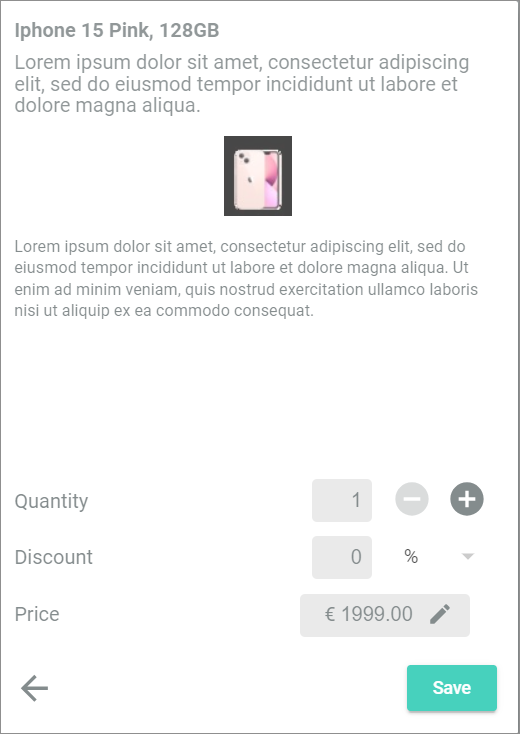
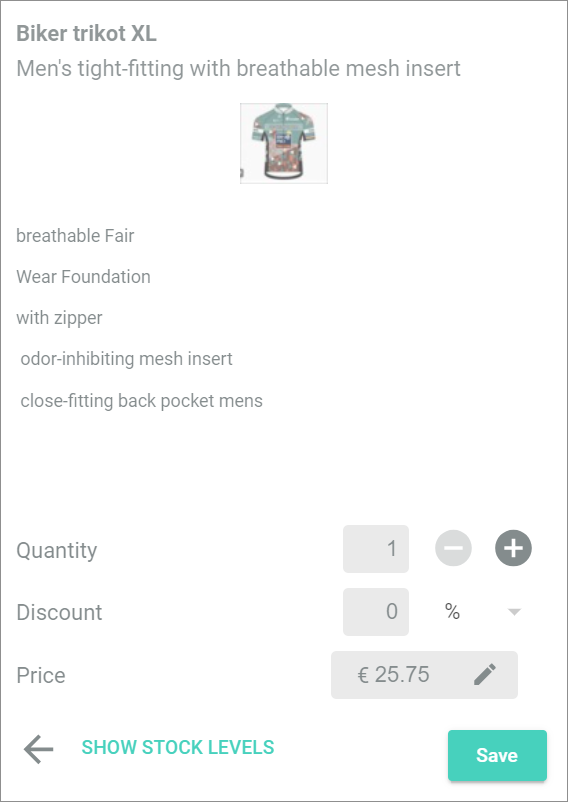
ACD-1084

diff --git a/POS/UserInterface/01a_Cashpoint.md b/POS/UserInterface/01a_Cashpoint.md
@@ -10,7 +10,7 @@
 ![Cashpoint](../../Assets/Screenshots/POS/Sales/Cashpoint/Cashpoint.png "[Cashpoint]")
 
 - *Find offer by name* ![Search](../../Assets/Icons/Search.png "[Search]")   
-    Enter the offer name, the keyword or the (EAN) number you search for in the search bar. Click a product in the list of search results to add it to the bill list.
+    Enter the offer name, the keyword or the (EAN) number you search for in the search bar. Click an offer in the list of search results to add it to the bill list.
 
     > [Info] The search already provides you with proposals for your keyword as you type.
 
@@ -31,10 +31,13 @@
 The *Age verification* window is displayed if a selected offer is not suitable for children and young people. For detailed information, see [Verify the age](../Operation/02_SelectOffer.md#verify-the-age).
 
 - [AGE OF BUYER CONFIRMED]   
-   Click this button if f the customer is allowed to buy this offer.        
+    Click this button if the customer is allowed to buy this offer.  
+    The offer is added to the bill list.      
 
 - [CANCEL]   
-   Click this button if the customer is too young to buy this offer.
+   Click this button if the customer is too young to buy this offer.   
+   The offer is not added to the bill list. 
+
 
 
 <!---NEU-->
@@ -42,7 +45,7 @@ The *Age verification* window is displayed if a selected offer is not suitable f
 
 *Venduo POS > Sales > Select Store and Pay Desk > Tab CASHPOINT > Select offer*
 
-![Choose options](../../Assets/Screenshots/POS/Sales/Cashpoint/ChooseOption.png "[Choose option]")
+![Choose options](../../Assets/Screenshots/POS/Sales/Cashpoint/ChooseOption2.png "[Choose option]")
 
 The *Choose options* window is displayed if a selected offer has additional product options that represent a service. For detailed information, see [Add a product option](../Operation/02_SelectOffer.md#add-a-product-option). 
 
@@ -50,11 +53,12 @@ The *Choose options* window is displayed if a selected offer has additional prod
     Enter additional information to a single option, if applicable. This can be a text or a name that should be printed on a shirt or another item.
 
 - [CANCEL]   
-    Click this button if the customer do not want to purchase the option.
+    Click this button if the customer no longer wants to purchase the offer associated with the product option.
 
 - [SAVE]   
-    Click this button if the customer want to purchase the option.   
-    The option is added to the bill list.
+    Click this button if the customer wants to purchase the offer, or both the offer and the product option.   
+    If you previously selected a product option, both the associated offer and the product option are added to the bill list.
+    If you have not previously selected a product option, only the associated offer is added to the bill list.
 
 
 
@@ -80,33 +84,31 @@ The *Choose options* window is displayed if a selected offer has additional prod
     Click this button to scan a customer code with a barcode scanner or to enter the customer number manually, see [Assign a purchase via customer number](../Operation/03_EditBillList.md#assign-a-purchase-via-customer-number).
 
 - ![Add customer](../../Assets/Icons/Customer02.png "[Add customer]") (Add Customer)   
-    Click this button to assign the bill to a certain customer. The *Add Customer* view is displayed, see [Add customer](#add-customer).
+    Click this button to assign the bill to a certain customer. The *Add customer* view is displayed, see [Add customer](#add-customer).
 
 - *Customer Name and Address*   
-    The customer name and address is displayed, when the bill list is assigned to a customer. This field is read-only.
+    The customer name and address is displayed when the bill list is assigned to a customer. This field is read-only.
 
-- ![Unassign Customer](../../Assets/Icons/Trash01.png "[Unassign Customer]") (Unassign Customer)  
-    Click this button to unassign the customer from the bill list. The button is only displayed when the bill list is already assigned to a customer.
+- ![Unassign customer](../../Assets/Icons/Trash01.png "[Unassign customer]") (Unassign Customer)  
+    Click this button to unassign the customer from the bill list. The button is only displayed if the bill list has already been assigned to a customer.
 
 - *Quantity x*    
-    Quantity of the product in the bill list. This field is displayed only when a product is added to the bill list.
+    Quantity of the offer in the bill list. This field is only displayed if an offer has been added to the bill list.
 
 - *Name*   
-    Offer name. This field is displayed only when an offer is added to the bill list.
+    Offer name. This field is only displayed if an offer has been added to the bill list.
 
 - *Price*   
-    Total gross price of the single offer(s).<!--- Hier stand net price. Bei mir ist aber der gross price--> This field is displayed only when an offer is added to the bill list.   
+    Total gross price of the single offer(s).<!--- Hier stand net price. Bei mir ist aber der gross price--> This field is only displayed if an offer has been added to the bill list.   
     By default, the price is displayed in black. If the price has been modified, it will be displayed differently as follows:
-    - Price is written in red and followed by an amount/a percentage in brackets   
+    - Price is written in red and followed by an amount/a percentage in brackets:   
         The price is a discount price, the discount is indicated in brackets, either as a fixed discount or percentage.
-    - Price is written in italics   
+    - Price is written in italics:   
         The price itself has been modified.
-    - Price is crossed out and is displayed below the price that is charged  
-        The price have been changed directly without a discount (new price is written in italics) or the price is a price group-specific price, see [Assign a price group](../Operation/04_CompletePurchase.md#assign-a-price-group).
-<!--- noch prüfen, was ist mit Customer-specific discount?-->
-    
+    - Price is crossed out and is displayed below the price that is charged:  
+        The price have been changed directly without a discount (new price is written in italics) or the price is a price group price, see [Assign a price group](../Operation/04_CompletePurchase.md#assign-a-price-group).
 
-- ![Remove Offer](../../Assets/Icons/Cross02.png "[Remove Product]") (Remove Product)   
+- ![Remove Offer](../../Assets/Icons/Cross02.png "[Remove Product]") (Remove offer)   
     Click this button to remove an offer from the bill list. This field is displayed only when an offer is added to the bill list.
 
 - *![Toggle](../../Assets/Icons/Toggle.png "[Toggle]") Single scan*   
@@ -115,7 +117,7 @@ The *Choose options* window is displayed if a selected offer has additional prod
     > [Info] If the same offer is selected more than once, and you use the single scan feature, each offer is listed as a single offer in the bill list. This allows you to treat each offer in the posting individually. 
 
 - *Sub total*   
-    Net<!---Hier stand "Gross"--> amount of all products in the bill list. This field is read-only.
+    Net<!---Hier stand "Gross"--> amount of all offers in the bill list. This field is read-only.
 
 - *Tax*   
     Tax amount of all offers in the bill list. This field is read-only.
@@ -159,10 +161,10 @@ This section is only displayed when no voucher has been redeemed.
 **Settlement**
 
 - *Sub total*   
-    Net <!---Hier stand Gross amount--> amount of all products in the bill list. This field is read-only.
+    Net <!---Hier stand Gross amount--> amount of all offers in the bill list. This field is read-only.
 
 - *Tax*   
-    Tax amount of all products in the bill list. This field is read-only.
+    Tax amount of all offers in the bill list. This field is read-only.
 
 - [+ DISCOUNT]   
     Click this button to apply a discount to the bill. The *Discount on bill* view is displayed. This button is only displayed when no discount has been selected.
@@ -463,7 +465,7 @@ The *Payment at terminal* view is automatically displayed when the cash payment 
 ![Offer details](../../Assets/Screenshots/POS/Sales/Cashpoint/BillList/ProductDetails.png "[Offer details]")
 
 - *Quantity*   
-    Quantity of the selected product in the bill list.
+    Quantity of the selected offer in the bill list.
 
 - ![Minus](../../Assets/Icons/Minus.png "[Minus]") (Minus)  
     Click this button to decrease the quantity in the field *Quantity* by 1. The button is locked, when the quantity equals **1**.
@@ -472,7 +474,7 @@ The *Payment at terminal* view is automatically displayed when the cash payment 
     Click this button to increase the quantity in the field *Quantity* by 1.
 
 - *Discount*   
-    Discount on the selected product in the bill list.
+    Discount on the selected offer in the bill list.
 
 - *%/Currency*   
     Click this drop-down list and select the type of discount. The following options are available:
@@ -482,13 +484,17 @@ The *Payment at terminal* view is automatically displayed when the cash payment 
         A fixed price discount in the selected currency is applied.
 
 - *Price*   
-    Price of the selected product in the bill list.
+    Price of the selected offer in the bill list.
+
+- [SHOW STOCK LEVELS]   
+    Click this button to display the stock level of the selected offer in all other stores of your company.   
+    The *Stock levels* window is displayed. It provides a list of the stock levels of this offer in all stores.
 
 -  ![Edit](../../Assets/Icons/Edit02.png "[Edit]") (Edit)   
-    Click this button to unlock the price field and edit the price of the selected product.
+    Click this button to unlock the price field and edit the price of the selected offer.
 
 - ![Back](../../Assets/Icons/Back01.png "[Back]") (Back)   
-    Click this button to cancel the changes to the product and return to the bill list.
+    Click this button to cancel the changes to the offer and return to the bill list.
 
 - [Save]   
-    Click this button to save the changes to the product and return to the bill list.
+    Click this button to save the changes to the offer and return to the bill list.

diff --git a/POS/UserInterface/02a_GlobalSettings.md b/POS/UserInterface/02a_GlobalSettings.md
@@ -604,8 +604,8 @@ A customer-specific discount is automatically added to the pay bill list when a 
 
 The following prerequisites must be met to use this feature: 
 
-- You have added an attribute for the auto-discount to the attribute sets with which you define customer and supplier basic data. See the *RetailSuite customer* or the *RetailSuite supplier* attribute set for reference. Currently, the customer-specific discount can only be retrieved via the _customer_auto_discount attribute of the Actindo.Modules.Actindo.POS.Customers API. <!---ist das richtig-->
-- This attribute must be of the Floating point number or Integer data type. For detailed information, see [Floating point number](../../DataHub/UserInterface/05_DataTypeList.md#floating-point-number) or [Integer](../../DataHub/UserInterface/05_DataTypeList.md#integer) in the *DataHub* documentation.
+- You have added an attribute for the customer-specific discount to the attribute sets with which you define customer and supplier basic data. See the *RetailSuite customer* or the *RetailSuite supplier* attribute set for reference. Currently, the customer-specific discount can only be retrieved via the _customer_auto_discount attribute of the Actindo.Modules.Actindo.POS.Customers API. <!---ist das richtig-->
+- This attribute must be of the *Floating point number* or *Integer* data type. For detailed information, see [Floating point number](../../DataHub/UserInterface/05_DataTypeList.md#floating-point-number) or [Integer](../../DataHub/UserInterface/05_DataTypeList.md#integer) in the *DataHub* documentation.
 
 
 The following fields and features are available for this window:   
@@ -974,6 +974,8 @@ Define an invoice address for a default customer to connect the POS system with 
 <!---NEU-->
 ## KNISTR
 
+The KNISTR integration allows you to identify and charge a pre-printed voucher, see [Create an offer for pre‐printed vouchers](../Integration/07_ManageOffers.md#create-an-offer-for-pre-printed-vouchers).    
+
 In this section, you define all settings concerning the KNISTR integration. For detailed information, see the [KNISTR](https://www.knistr.com "[https://www.knistr.com]") website.
 
 
@@ -987,7 +989,7 @@ In this section, you define all settings concerning the KNISTR integration. For 
     Click this button to save any changes.
 
 - *App name*   
-    Name of the *KNISTR-PoS-Integration* API used for the connection of the current instance to Knistr&trade;. <!---Stimmt das?>
+    Name of the *KNISTR-PoS-Integration* API used for the connection of the current instance to Knistr&trade;. <!---Stimmt das?-->
 
 - *HMAC key*  
     HMAC key used for authentication. 

diff --git a/POS/Integration/11_DiscountOptions.md b/POS/Integration/11_DiscountOptions.md
@@ -5,8 +5,10 @@ This section provides you with an overview on the various discount options that 
 
 ## Automatic discount
 
-Discount that is automatically applied if the total of the bill exceeds a certain amount.   
+Discount that is automatically applied if the total of the bill exceeds a certain amount.  
+
 For detailed information, see [Automatic discount](../UserInterface/02a_GlobalSettings.md#automatic-discount).
+
 
 
 ## Manually granted discount
@@ -17,6 +19,8 @@ For detailed information, see the following:
 - [Add a discount to the purchase](../Operation//Operation/04_CompletePurchase.md#add-a-discount-to-the-purchase)
 - [Add a discount to a single offer](../Operation/03_EditBillList.md#add-a-discount-to-a-single-offer)
 
+
+
 ## Customer-specific discount
 
 Customer-specific discount that is automatically added to the pay bill list when a customer, for whom a discount is defined in the customer's master data, purchases an offer.   
@@ -24,12 +28,14 @@ Customer-specific discount that is automatically added to the pay bill list when
 >[Info] If a customer has a customer-specific discount, other discount options are not allowed.
 
 For detailed information, see the following:
-- Configuration: [Customer&dash;specific discount](../UserInterface/02a_GlobalSettings.md#customerspecific-discount)
-- Use: [Check the customer&dash;specific discount](../Operation/04_CompletePurchase.md#check-the-customer-specific-discount)
+- Configuration: [Customer-specific discount](../UserInterface/02a_GlobalSettings.md#customer-specific-discount)
+- Use: [Check the customer-specific discount](../Operation/04_CompletePurchase.md#check-the-customer-specific-discount)
+
+
 
 ## Discount based on price group
 
-Discount that is automatically added to the pay bill list when a customer who has been assigned a price group in the customer master data purchases an offer in which a price group price is stored.
+Discount that is automatically added to the pay bill list when a customer who has been assigned a price group in the customer's master data purchases an offer in which a price group price is stored.
 
 For detailed information, see the following:
 - Configuration:   
@@ -38,6 +44,7 @@ For detailed information, see the following:
     - [Field for price group](../UserInterface/02a_GlobalSettings.md#field-for-price-group)
 
 - Use: [Assign a price group](../Operation/04_CompletePurchase.md#assign-a-price-group)
+
 
 
 ## Discount based on promotion prices 

diff --git a/POS/Operation/00_Operation.md b/POS/Operation/00_Operation.md
@@ -11,7 +11,7 @@ In this part of the *Venduo POS* documentation, you will find the following chap
         - [Select an offer by QuickSelect](./02_SelectOffer.md#select-an-offer-by-quickselect)
         - [Select an offer by name](./02_SelectOffer.md#select-an-offer-by-name)
         - [Select an offer by number](./02_SelectOffer.md#select-an-offer-by-number)
-        - [Select a pre&dash;printed voucher offer](./02_SelectOffer.md#select-a-preprinted-voucher-offer)
+        - [Select a pre-printed voucher offer](./02_SelectOffer.md#select-a-preprinted-voucher-offer)
     - [Verify the age](./02_SelectOffer.md#verify-the-age)
     - [Add product options](./02_SelectOffer.md#add-product-options)
 
@@ -20,6 +20,7 @@ In this part of the *Venduo POS* documentation, you will find the following chap
     - [Add a discount to a single offer](./03_EditBillList.md#add-a-discount-to-a-single-offer)
     - [Edit the price of an offer](./03_EditBillList.md#edit-the-price-of-an-offer)
     - [Edit the quantity of an offer](./03_EditBillList.md#edit-the-quantity-of-an-offer)
+    - [Check the stock level](./03_EditBillList.md#check-the-stock-level)
     - [Delete an offer from the bill list](./03_EditBillList.md#delete-an-offer-from-the-bill-list)
     - [Add a sale note](./03_EditBillList.md#add-a-sale-note)
     - [Assign a purchase to a customer](./03_EditBillList.md#assign-a-purchase-to-a-customer)
@@ -31,7 +32,7 @@ In this part of the *Venduo POS* documentation, you will find the following chap
 - [Complete a purchase](./04_CompletePurchase.md)
     - [Suggest an offer to the customer](./04_CompletePurchase.md#suggest-an-offer-to-the-customer)
     - [Add a discount to the purchase](./04_CompletePurchase.md#add-a-discount-to-the-purchase)
-    - [Check the customer&dash;specific discount](./04_CompletePurchase.md#check-the-customer‐specific-discount)
+    - [Check the customer-specific discount](./04_CompletePurchase.md#check-the-customer‐specific-discount)
     - [Assign a price group](./04_CompletePurchase.md#assign-a-price-group)
     - [Initiate a down payment](./04_CompletePurchase.md#initiate-a-down-payment)
     - [Initiate a delivery](./04_CompletePurchase.md#initiate-a-delivery)

diff --git a/POS/Operation/03_EditBillList.md b/POS/Operation/03_EditBillList.md
@@ -77,7 +77,7 @@ The modified price is related to each item of the offer entry in the bill list. 
 4. Click the [Save] button in the bottom right corner to apply the price change.   
     The detail view of the offer is closed. The bill list is displayed again. The modified price is displayed in italics to the right of the offer. <!---NEU-->The old price is listed one line below and crossed out. The price difference is stored for later analyzes.
 
-    ![Bill list](../../Assets/Screenshots/POS/Sales/Cashpoint/BillListChangedPrice.png "[Bill list]")
+    ![Bill list](../../Assets/Screenshots/POS/Sales/Cashpoint/BillList/BillListChangedPrice.png "[Bill list]")
 
 
 
@@ -109,6 +109,35 @@ You can change the quantity of an offer in your bill list by increasing or decre
 3. Click the [SAVE] button in the bottom right corner to apply the quantity change.   
     The detail view of the offer is closed. The bill list is displayed again. The selected quantity is displayed to the left of the offer.
 
+
+## Check the stock level
+
+You can check the stock level respectively the availability of an offer for the current store or all other stores of your company.
+
+#### Prerequisites
+
+- Offers for POS are created, see [Manage offers for POS](../Integration/07_ManageOffers.md).
+- At least one offer is added to the bill list, see [Select an offer](./02_SelectOffer.md#select-an-offer).
+
+#### Procedure
+
+*Venduo POS > Sales > Select store and pay desk > Tab CASHPOINT*
+
+![Cashpoint](../../Assets/Screenshots/POS/Sales/Cashpoint/Product.png "[Cashpoint]")
+
+1. Click the offer in the bill list whose stock level you want to check.   
+    The detail view of the offer is displayed in the bill list.
+
+    ![Offer detail](../../Assets/Screenshots/POS/Sales/Cashpoint/BillList/ProductDetails.png "[Offer detail]")
+
+2. Click the [SHOW STOCK LEVELS] button.   
+    The *Stock levels* window is displayed. 
+
+    ![Stock levels](../../Assets/Screenshots/POS/Sales/Cashpoint/BillList/StockLevels.png "[Stock levels]")
+
+3. Check the availability of the offer.
+
+4. Click the [Esc] key to close the window.
 
 
 ## Delete an offer from the bill list

diff --git a/POS/Operation/02_SelectOffer.md b/POS/Operation/02_SelectOffer.md
@@ -8,7 +8,7 @@ The *Venduo POS* module offers several ways to select an offer and to search for
 
 ## Use single scan
 
-If you select the same offer more than once, it is displayed in the bill list as one line item with the corresponding quantity indication. This means that the individual offer with the quantity 1 is not displayed in the invoice list.   
+If you select the same offer more than once, it is displayed in the bill list as one line item with the corresponding quantity indication. This means that the individual offer with the quantity 1 is not displayed in the bill list.   
 Optionally, you can activate the single scan feature before you select the offers. By using it, each offer is listed as a single line item in the bill list, even if it is the same offer. This allows you to treat each offer in the bill list individually, for instance, to apply an individual discount.
 
 #### Prerequisites
@@ -161,7 +161,7 @@ Offers for POS are created, see [Manage offers for POS](../Integration/07_Manage
     > [Info] The number remains in the search bar when you add an offer to the bill list. When you click the search bar with that number again, the search results list for this number is displayed again.
 
 
-### Select a pre&dash;printed voucher offer 
+### Select a pre-printed voucher offer 
 
 Select a voucher offer that allows you to identify and charge a pre-printed voucher. You can then scan the voucher code with a barcode scanner or add the card code manually. 
 

diff --git a/POS/Integration/07_ManageOffers.md b/POS/Integration/07_ManageOffers.md
@@ -332,7 +332,7 @@ You need to define the created product as a voucher to use it in the POS store.
 
 
 <!---NEU-->
-### Create an offer for pre&dash;printed vouchers
+### Create an offer for pre-printed vouchers
 
 If a *Knistr&trade;* integration is available for pre-printed vouchers in the standard. If the connection is established, the cashiers can record the codes of these vouchers via barcode scan or manually. For detailed information, see the [Knistr](https://www.knistr.com "[//https:knistr.com]") website.   
 
